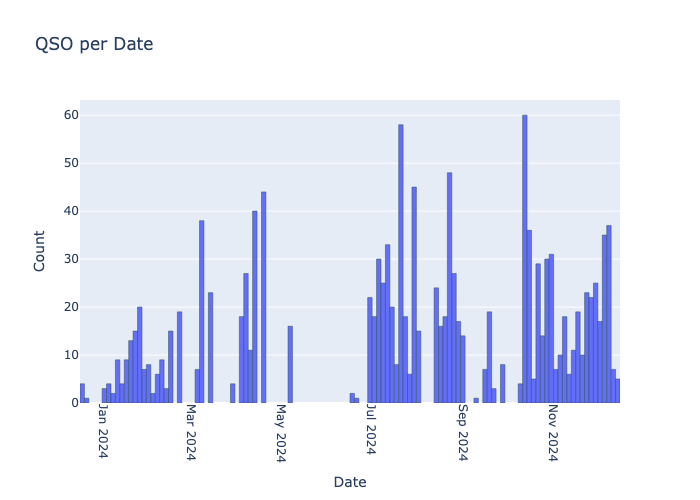
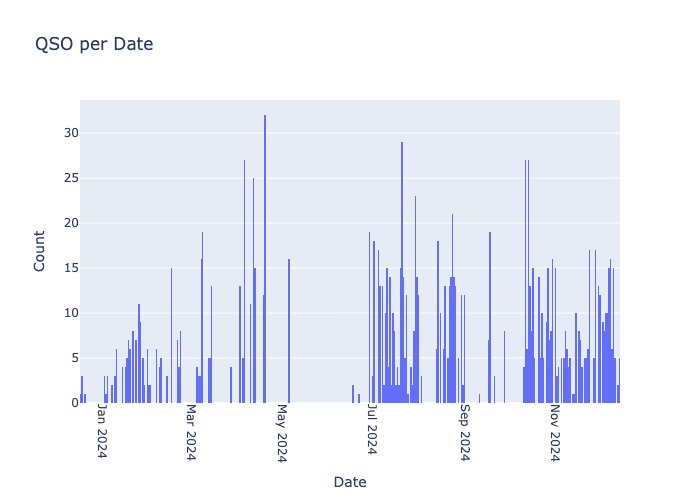
update

diff --git a/main.py b/main.py
@@ -346,11 +346,11 @@ if __name__ == "__main__":
 
     # Plot QSOS per day
     df = pd.DataFrame([{"Date": x.time_utc_off.date(), "Count": 1} for x in all_qsos_ent])
-    fig = px.histogram(df, x="Date", y="Count", title="QSO per Date", nbins=len(set(df["Date"])))
+    fig = px.histogram(df, x="Date", y="Count", title="QSO per Date", nbins=len(set(df["Date"])) * 4)
     fig.update_xaxes(tickangle=90)
     fig.update_xaxes(title_text="Date")
     fig.update_yaxes(title_text="Count")
-    fig.update_traces(marker=dict(line=dict(width=0.5, color='DarkSlateGrey')))
+    # fig.update_traces(marker=dict(line=dict(width=0.5, color='DarkSlateGrey')))
     fig.write_image(f"{C_WORK_DATA_DIR}/output/qso_per_date.png")
 
     # Plot QSOS per Day of the week
